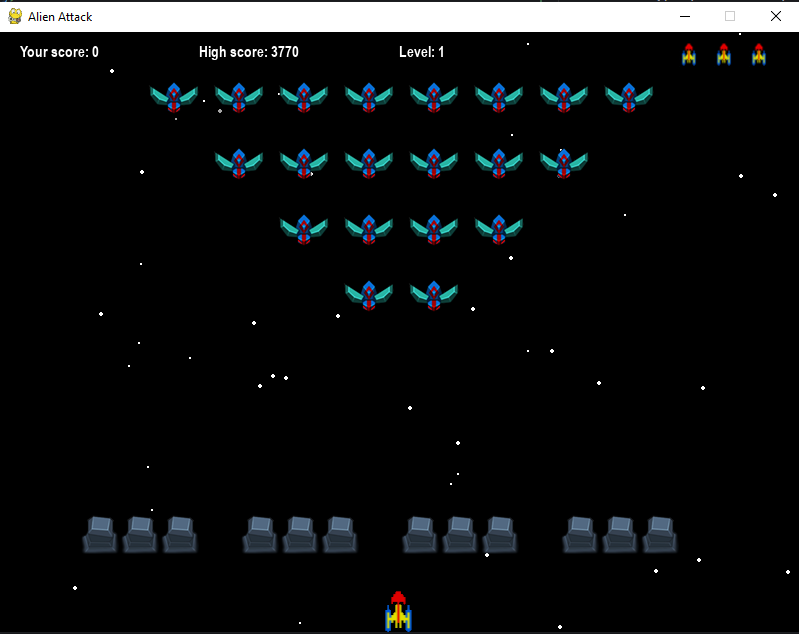
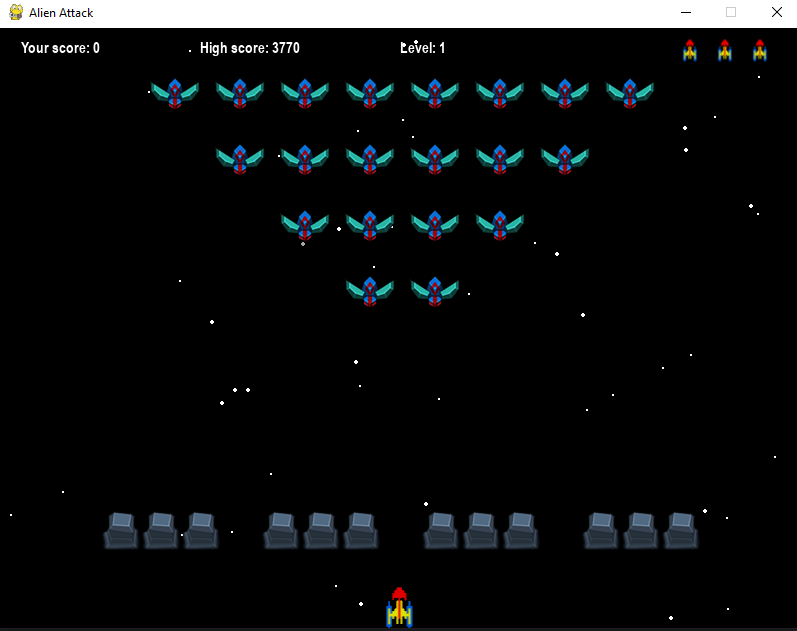
Align defences to screen center

diff --git a/main.py b/main.py
@@ -49,7 +49,7 @@ def create_defences():
     defences.clear_all()
     for i in range(4):
         for j in range(3):
-            defences.add(Defence(100 + i * 160 + j * 40, const.HEIGHT - player.height - 50))
+            defences.add(Defence(120 + i * 160 + j * 40, const.HEIGHT - player.height - 50))
 
 def start_game(reset_defences):
     global short_pause
